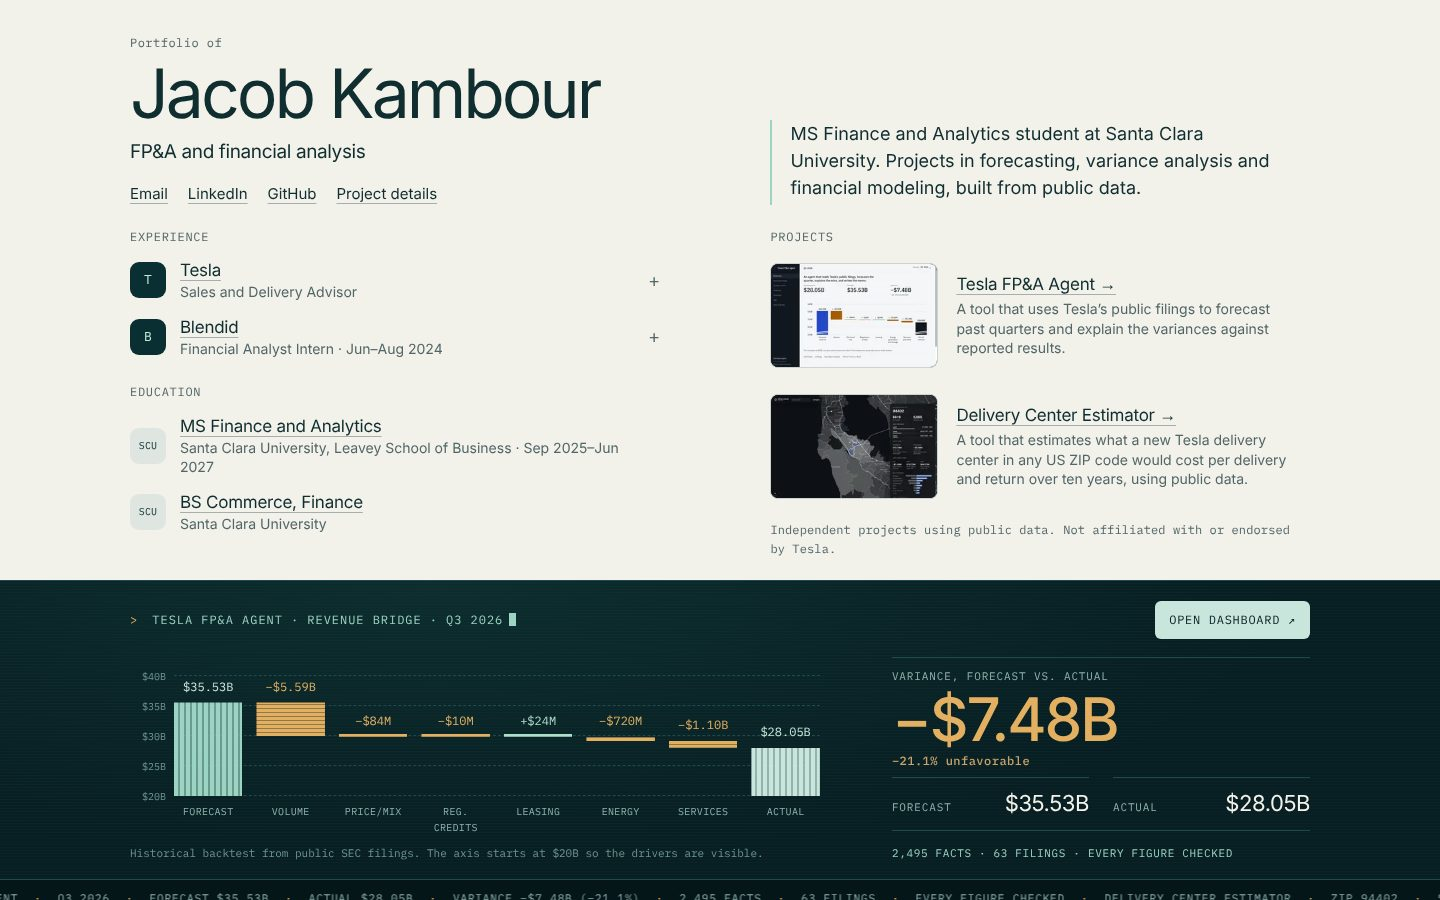
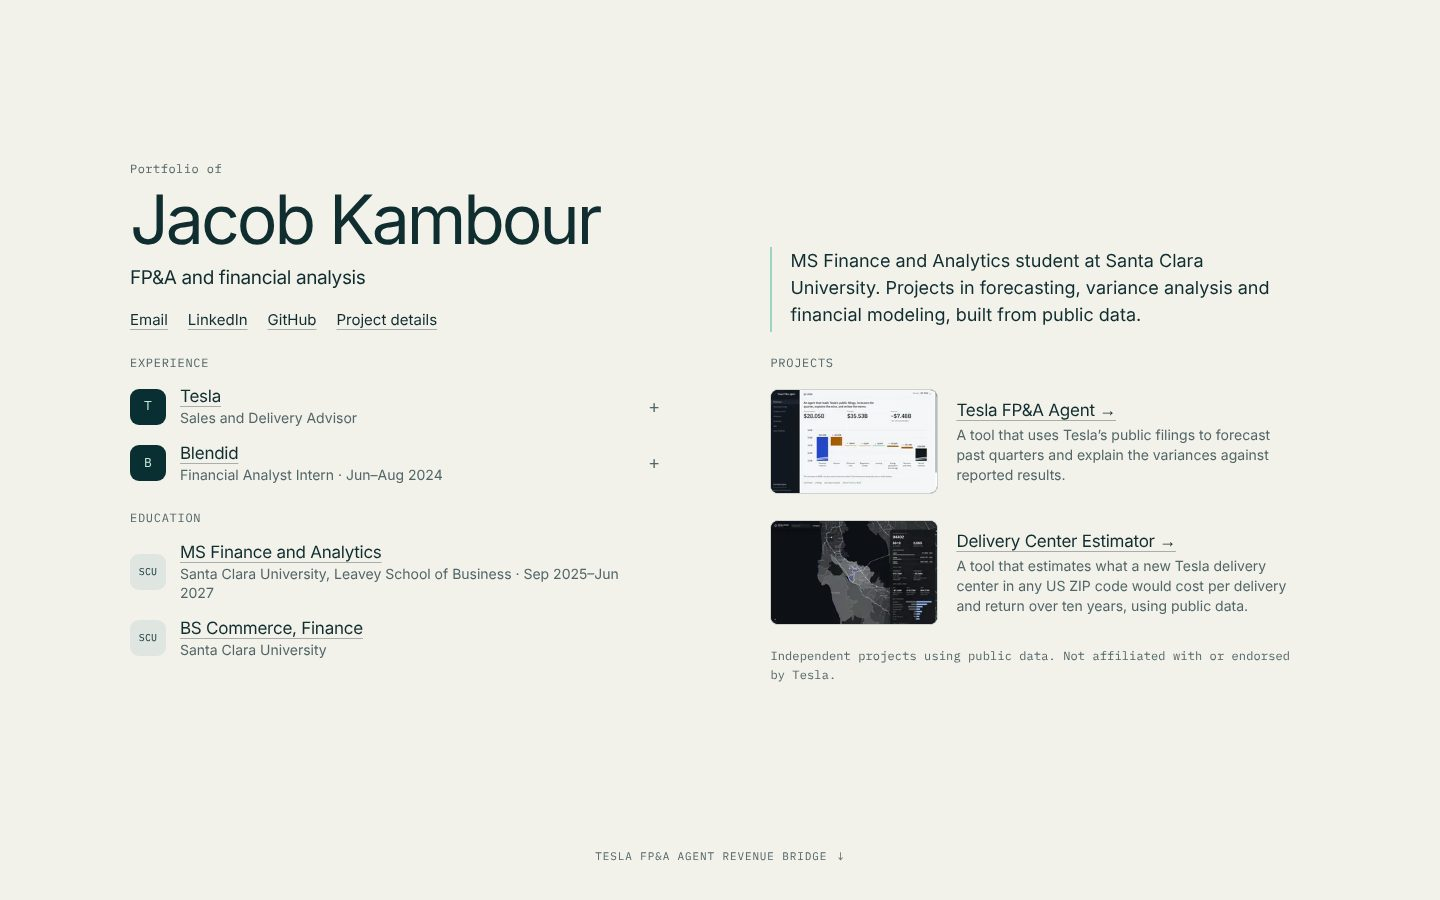
Use résumé experience bullets; move /v2/ revenue bridge below the fold
experience.yaml bullets now match the November 11 résumé word for word.
On /v2/ the recruiter content fills the first screen with a scroll cue,
and the terminal band starts below the fold with a taller chart.

Claude-Session: https://claude.ai/code/session_01MPaYzWctghax4xefJfZc6c

diff --git a/HANDOFF.md b/HANDOFF.md
@@ -71,8 +71,10 @@ Branch feat/simplify-home-projects. Jacob asked for less per-project detail on t
 ## One-screen /v2/ draft — November 11, 2026
 Branch claude/exciting-fermi-9e7opt adds a separate draft homepage at /v2/ (src/pages/v2.astro). The current homepage, /projects/ and case studies are unchanged; nothing links to /v2/ yet and it is not deployed.
 - Inspiration (reviewed from tweets Jacob shared): parivansjalia.com for the one-screen résumé layout with click-to-expand roles, and Motionin's "Cipher"/"Benchmark" sections for the terminal-style finance visual. Nothing was copied: no third-party code, art, prompts or text.
-- Layout: name, focus line, Email/LinkedIn/GitHub/Project details links; Experience rows (native <details>, one open at a time, all bullets from experience.yaml); Education rows; both projects with thumbnails and taglines from work.yaml. Recruiter content ends about 580px down at 1280–1536px laptop sizes.
+- Layout: name, focus line, Email/LinkedIn/GitHub/Project details links; Experience rows (native <details>, one open at a time, all bullets from experience.yaml); Education rows; both projects with thumbnails and taglines from work.yaml. The recruiter content fills the first screen (a full-viewport wrapper, vertically centred) with a small cue linking down; the terminal band starts exactly at the fold at every tested size.
 - Terminal band: the real Q3 2026 revenue bridge from the live Tesla FP&A Agent dashboard capture (forecast $35.53B → actual $28.05B, variance −$7.48B / −21.1%, 2,495 facts, 63 filings). Drawn with CSS, labelled as a historical backtest with the axis starting at $20B; screen-reader label and description included. The tape uses only figures already on the site (Delivery Center Estimator figures are labelled model estimates).
 - Shared files: none changed. The variance figure uses Inter 500 (already loaded site-wide). Classes are scoped; note global.css `.project + .project` exists, so /v2/ uses `.proj-card`.
 - Motion: stepped bar rise, blinking cursor and scrolling tape; all disabled under prefers-reduced-motion (tape becomes static wrapped text).
 - Verification: astro check 0 errors/0 warnings; build 5 routes. Production preview at 1440×900, 1280×800, 1024×768, 390×844 and reduced motion: no horizontal overflow, images load, no console errors, details toggle works. Screenshots: docs/previews/v2-onescreen-*.jpg. To promote it, move the markup into index.astro (or swap routes) after Jacob approves.
+
+- Nov 11 update: experience.yaml bullets now copy the Nov 11 résumé verbatim (affects both / and /v2/ in source). This includes the Tesla line "about 50 quarter-end deliveries totaling over $2 million in revenue", which earlier notes had kept off the site (delivery value is not revenue); Jacob asked for these bullets. /v2/ was republished to gh-pages; the live homepage was not rebuilt.
